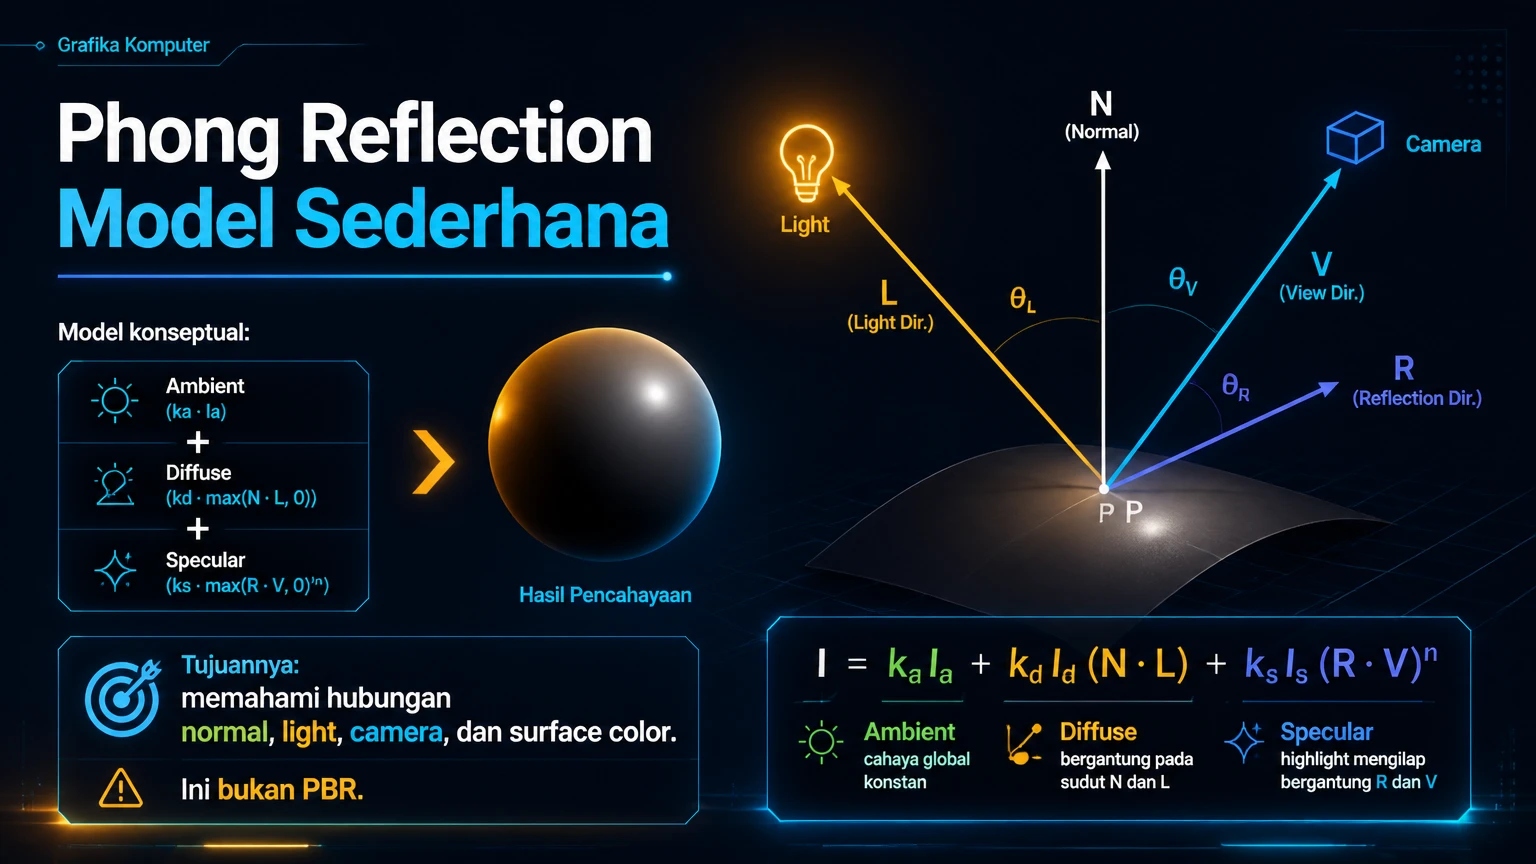
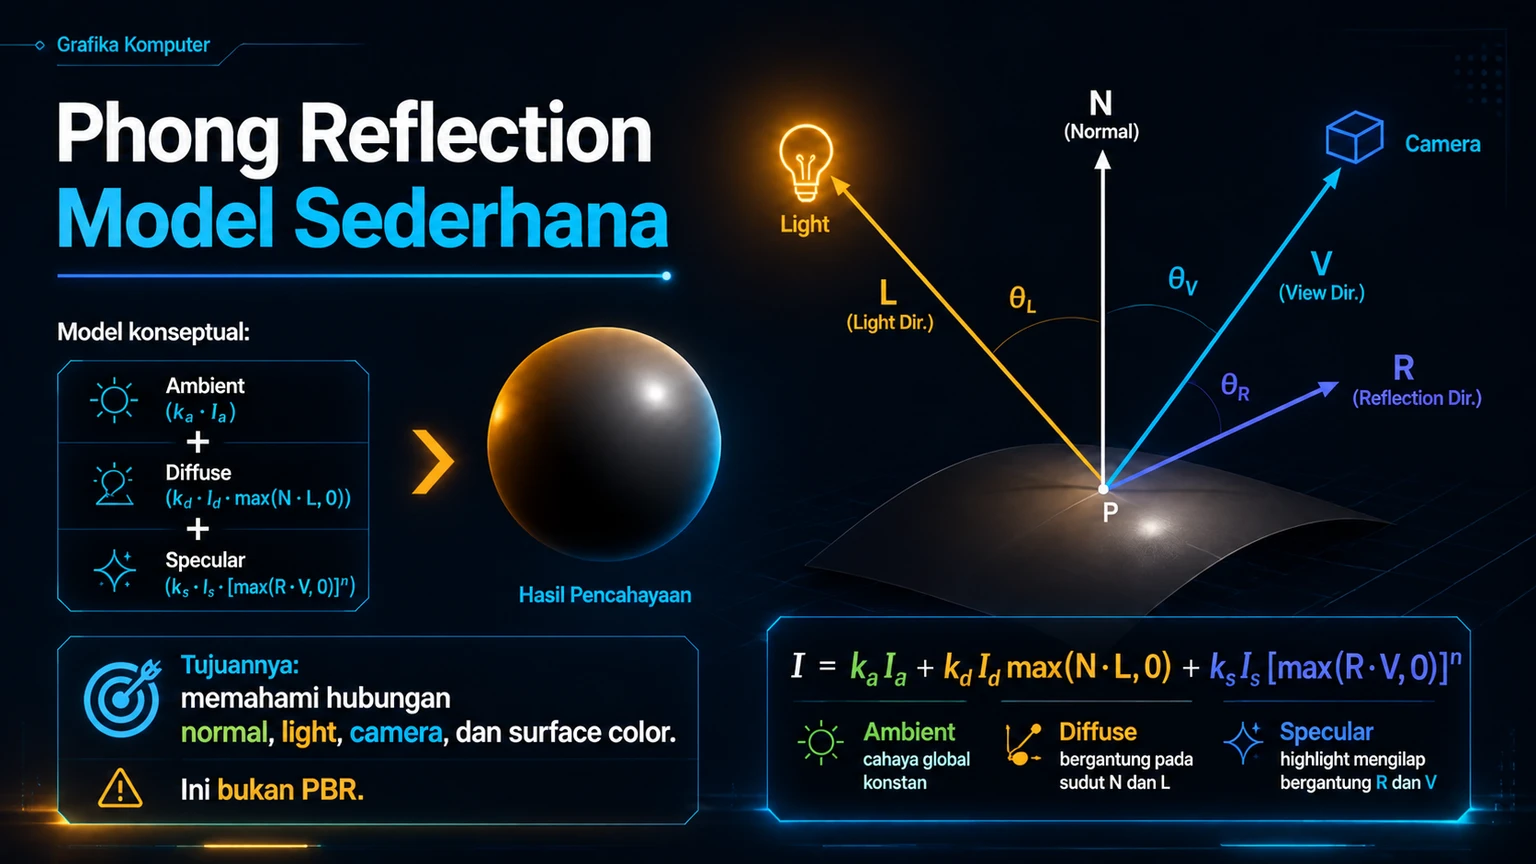
Add selectable curved objects to practicum 5 and update slide image

diff --git a/praktikum/output/pert05/main.js b/praktikum/output/pert05/main.js
@@ -179,21 +179,95 @@ function cubeData() {
   return { positions, normals, uvs };
 }
 
-const geometry = cubeData();
-const positionBuffer = createBuffer(geometry.positions);
-const faceNormalBuffer = createBuffer(geometry.normals);
-const smoothNormals = geometry.positions.reduce((result, _, index) => {
-  if (index % 3 === 0) {
-    const x = geometry.positions[index];
-    const y = geometry.positions[index + 1];
-    const z = geometry.positions[index + 2];
-    const length = Math.hypot(x, y, z) || 1;
-    result.push(x / length, y / length, z / length);
+// Parametric surfaces keep this WebGL2 example usable without external libraries.
+function curvedData(shape) {
+  const tau = Math.PI * 2;
+  function knotCenter(t) {
+    const radius = 0.68 + 0.24 * Math.cos(3 * t);
+    return [radius * Math.cos(2 * t), radius * Math.sin(2 * t),
+      0.24 * Math.sin(3 * t)];
   }
-  return result;
-}, []);
-const smoothNormalBuffer = createBuffer(smoothNormals);
-const uvBuffer = createBuffer(geometry.uvs);
+  function surface(u, v) {
+    const t = u * tau, angle = v * tau;
+    if (shape === "sphere") {
+      const latitude = v * Math.PI;
+      const normal = [Math.sin(latitude) * Math.cos(t), Math.cos(latitude),
+        Math.sin(latitude) * Math.sin(t)];
+      return { position: normal.map(value => value * 1.05), normal };
+    }
+    if (shape === "torus") {
+      const normal = [Math.cos(t) * Math.cos(angle),
+        Math.sin(t) * Math.cos(angle), Math.sin(angle)];
+      return { position: [(0.78 + 0.3 * Math.cos(angle)) * Math.cos(t),
+        (0.78 + 0.3 * Math.cos(angle)) * Math.sin(t), 0.3 * Math.sin(angle)], normal };
+    }
+    const center = knotCenter(t);
+    const tangent = normalize(subtract(knotCenter(t + 0.0001), knotCenter(t - 0.0001)));
+    // The planar tangent never vanishes for this (2, 3) knot. This frame is periodic.
+    const side = normalize(cross(tangent, [0, 0, 1]));
+    const up = normalize(cross(side, tangent));
+    const normal = side.map((value, i) => value * Math.cos(angle) + up[i] * Math.sin(angle));
+    return { position: center.map((value, i) => value + 0.15 * normal[i]), normal };
+  }
+  const positions = [], normals = [], smoothNormals = [], uvs = [];
+  const columns = shape === "torusKnot" ? 160 : 64;
+  const rows = 32;
+  function vertex(u, v) {
+    const sample = surface(u, v);
+    // Surface derivatives give the actual normal, including the tube frame's twist.
+    if (shape === "torusKnot") {
+      const du = subtract(surface(u + 0.00001, v).position, surface(u - 0.00001, v).position);
+      const dv = subtract(surface(u, v + 0.00001).position, surface(u, v - 0.00001).position);
+      let normal = normalize(cross(du, dv));
+      if (dot(normal, sample.normal) < 0) normal = normal.map(value => -value);
+      sample.normal = normal;
+    }
+    return { ...sample, uv: [u * 2, v * 2] };
+  }
+  const grid = Array.from({ length: columns + 1 }, (_, x) =>
+    Array.from({ length: rows + 1 }, (_, y) => vertex(x / columns, y / rows)));
+  function triangle(a, b, c) {
+    let face = cross(subtract(b.position, a.position), subtract(c.position, a.position));
+    if (Math.hypot(...face) < 1e-10) return; // Skip collapsed sphere pole triangles.
+    if (dot(face, a.normal) < 0) {
+      [b, c] = [c, b];
+      face = face.map(value => -value);
+    }
+    face = normalize(face);
+    for (const point of [a, b, c]) {
+      positions.push(...point.position);
+      normals.push(...face);
+      smoothNormals.push(...point.normal);
+      uvs.push(...point.uv);
+    }
+  }
+  for (let x = 0; x < columns; x += 1) {
+    for (let y = 0; y < rows; y += 1) {
+      triangle(grid[x][y], grid[x + 1][y], grid[x + 1][y + 1]);
+      triangle(grid[x][y], grid[x + 1][y + 1], grid[x][y + 1]);
+    }
+  }
+  return { positions, normals, smoothNormals, uvs };
+}
+
+const meshes = new Map();
+function getMesh(shape) {
+  if (meshes.has(shape)) return meshes.get(shape);
+  const geometry = shape === "cube" ? cubeData() : curvedData(shape);
+  const smoothNormals = geometry.smoothNormals || geometry.positions.reduce((result, _, index) => {
+    if (index % 3 === 0) result.push(...normalize(geometry.positions.slice(index, index + 3)));
+    return result;
+  }, []);
+  const mesh = {
+    position: createBuffer(geometry.positions),
+    flat: createBuffer(geometry.normals),
+    smooth: createBuffer(smoothNormals),
+    uv: createBuffer(geometry.uvs),
+    count: geometry.positions.length / 3,
+  };
+  meshes.set(shape, mesh);
+  return mesh;
+}
 
 function createBuffer(data) {
   const buffer = gl.createBuffer();
@@ -334,6 +408,7 @@ const state = {
   light: [2, 2, 3],
   ambient: 0.18,
   shininess: 32,
+  shape: "cube",
   flat: true,
   texture: true,
   textureSource: "checker",
@@ -429,13 +504,14 @@ function draw() {
   gl.useProgram(program);
   if (state.depth) gl.enable(gl.DEPTH_TEST);
   else gl.disable(gl.DEPTH_TEST);
-  bindAttribute(positionLocation, positionBuffer, 3);
+  const mesh = getMesh(state.shape);
+  bindAttribute(positionLocation, mesh.position, 3);
   bindAttribute(
     normalLocation,
-    state.flat ? faceNormalBuffer : smoothNormalBuffer,
+    state.flat ? mesh.flat : mesh.smooth,
     3,
   );
-  bindAttribute(uvLocation, uvBuffer, 2);
+  bindAttribute(uvLocation, mesh.uv, 2);
   const model = modelMatrix(),
     view = lookAt(state.camera.position, state.camera.target, state.camera.up),
     projection = perspective(60, canvas.width / canvas.height, 0.1, 30);
@@ -462,7 +538,7 @@ function draw() {
     state.textureSource === "image" ? imageTexture : checkerTexture,
   );
   gl.uniform1i(locations.texture, 0);
-  gl.drawArrays(gl.TRIANGLES, 0, geometry.positions.length / 3);
+  gl.drawArrays(gl.TRIANGLES, 0, mesh.count);
   updateHud();
 }
 function updateCamera(deltaTime) {
@@ -486,8 +562,8 @@ function updateCamera(deltaTime) {
 }
 function updateHud() {
   document.querySelector("#cubeRotationButton").textContent = state.cubeRotation
-    ? "Stop Cube Rotation (P)"
-    : "Resume Cube Rotation (P)";
+    ? "Stop Object Rotation (P)"
+    : "Resume Object Rotation (P)";
   document.querySelector("#shadingInfo").textContent = state.flat
     ? "FLAT"
     : "SMOOTH";
@@ -507,6 +583,7 @@ function reset() {
   Object.assign(state, {
     ambient: 0.18,
     shininess: 32,
+    shape: "cube",
     flat: true,
     texture: true,
     textureSource: "checker",
@@ -521,6 +598,7 @@ function reset() {
     cubeRotation: true,
     cubeTime: 0,
   });
+  document.querySelector("#shapeSelect").value = state.shape;
   state.camera.position = [0, 1.3, 5];
   state.camera.target = [0, 0, 0];
   [
@@ -550,6 +628,11 @@ function reset() {
   updateTextureState();
 }
 function bindControls() {
+  document.querySelector("#shapeSelect").onchange = (event) => {
+    state.shape = event.target.value;
+    // Curved surfaces start smooth; F still lets learners compare triangle normals.
+    state.flat = state.shape === "cube";
+  };
   document.querySelector("#cubeRotationButton").onclick = () => {
     state.cubeRotation = !state.cubeRotation;
   };

diff --git a/praktikum/output/pert05/index.html b/praktikum/output/pert05/index.html
@@ -3,7 +3,7 @@
   <head>
     <meta charset="UTF-8" />
     <meta name="viewport" content="width=device-width, initial-scale=1.0" />
-    <title>Textured and Lit Cube Playground — Praktikum 5</title>
+    <title>Textured and Lit Object Playground — Praktikum 5</title>
     <link rel="stylesheet" href="./style.css" />
   </head>
   <body>
@@ -13,7 +13,7 @@
           <span class="eyebrow"
             >PRAKTIKUM 05 · LIGHTING, SHADING & TEXTURE</span
           >
-          <h1>Textured and Lit Cube Playground</h1>
+          <h1>Textured and Lit Object Playground</h1>
           <p>
             Amati hubungan normal, texture, point light, camera, dan fragment
             shading.
@@ -49,7 +49,16 @@
         </section>
         <aside class="control-panel">
           <span class="eyebrow">PARAMETER CONTROL</span
-          ><label class="range-row"
+          >
+          <label class="select-row">Bentuk objek
+            <select id="shapeSelect">
+              <option value="cube">Kubus</option>
+              <option value="torus">Torus</option>
+              <option value="torusKnot">Torus Knot</option>
+              <option value="sphere">Bola</option>
+            </select>
+          </label>
+          <label class="range-row"
             ><span>Ambient strength</span
             ><output id="ambientValue">0.18</output></label
           ><input
@@ -104,7 +113,7 @@
             ><button id="cameraOrbitButton">Camera Orbit</button>
           </div>
           <button class="wide-button" id="cubeRotationButton">
-            Stop Cube Rotation (P)
+            Stop Object Rotation (P)
           </button>
           <label class="select-row"
             >Texture source<select id="textureSource">
@@ -169,7 +178,7 @@
             <b>Keyboard</b><span>Arrow: light X/Y · W/S: light Z</span
             ><span>Q/E: camera X · F: flat/smooth</span
             ><span>T: texture · L: light orbit · R: reset</span>
-            <span>P: stop/resume cube rotation</span>
+            <span>P: stop/resume object rotation</span>
           </div>
         </aside>
       </div>

diff --git a/praktikum/output/pert05/README.md b/praktikum/output/pert05/README.md
@@ -1,4 +1,4 @@
-# Output Praktikum 5 — Textured and Lit Cube Playground
+# Output Praktikum 5 — Textured and Lit Object Playground
 
 Output ini mengerjakan tugas utama serta Challenge A–G dari modul Praktikum 5.
 
@@ -36,7 +36,7 @@ Output ini mengerjakan tugas utama serta Challenge A–G dari modul Praktikum 5.
 | Light X/Y/Z | Mengatur posisi point light |
 | Light orbit | Membuat light mengorbit cube |
 | Camera orbit | Menggerakkan camera mengorbit target |
-| Stop / Resume Cube Rotation (P) | Menghentikan atau melanjutkan putaran kubus tanpa menghentikan orbit kamera dan lampu |
+| Stop / Resume Object Rotation (P) | Menghentikan atau melanjutkan putaran kubus tanpa menghentikan orbit kamera dan lampu |
 | Flat / Smooth | Mengganti face normal dengan smooth vertex normal |
 | Texture source | Checkerboard procedural atau image texture SVG |
 | Filtering | NEAREST, LINEAR, atau LINEAR + mipmap |
@@ -80,7 +80,7 @@ UV menentukan lokasi sampling texture. Demo menyediakan checkerboard yang dibuat
 
 ### Camera dan animation
 
-Tombol **Stop Cube Rotation (P)** membekukan orientasi kubus pada posisi terakhir. Tekan kembali untuk melanjutkan putaran dari posisi tersebut. Camera Orbit dan Light Orbit memakai waktu animasi terpisah dari putaran kubus sehingga tetap berjalan saat kubus berhenti. Saat Camera Orbit aktif, kubus tetap terlihat berubah sudut pandang karena kamera bergerak mengelilinginya. Reset Scene mengaktifkan kembali putaran kubus dan mengembalikan orientasinya ke awal.
+Tombol **Stop Object Rotation (P)** membekukan orientasi kubus pada posisi terakhir. Tekan kembali untuk melanjutkan putaran dari posisi tersebut. Camera Orbit dan Light Orbit memakai waktu animasi terpisah dari putaran kubus sehingga tetap berjalan saat kubus berhenti. Saat Camera Orbit aktif, kubus tetap terlihat berubah sudut pandang karena kamera bergerak mengelilinginya. Reset Scene mengaktifkan kembali putaran kubus dan mengembalikan orientasinya ke awal.
 
 Camera menggunakan look-at View Matrix dan perspective Projection Matrix. Camera serta light dapat dikontrol dengan state-based input. Cube berputar otomatis menggunakan delta time agar kecepatan tidak bergantung pada frame rate.
 
@@ -94,3 +94,11 @@ Camera menggunakan look-at View Matrix dan perspective Projection Matrix. Camera
 - [x] Animated cube
 - [x] State-based light/camera control
 - [x] Challenge A–G
+
+## Pilihan bentuk objek
+
+Dropdown **Bentuk objek** menyediakan Kubus, Torus, Torus Knot, dan Bola. Geometri dibuat langsung di JavaScript dan dirender dengan WebGL2, tanpa library tambahan. Setiap bentuk memiliki UV, normal per segitiga untuk Flat, dan normal permukaan untuk Smooth. Buffer geometri disimpan agar pergantian bentuk tidak terus membuat buffer baru.
+
+Bentuk melengkung otomatis memakai Smooth saat dipilih; kubus memakai Flat. Tombol F tetap dapat mengganti keduanya. Semua kontrol lighting, tekstur, skala, rotasi objek, serta orbit kamera/lampu berlaku pada bentuk terpilih. Pergantian bentuk mempertahankan pengaturan tersebut kecuali mode Flat/Smooth. Reset kembali ke kubus.
+
+Untuk mengamati highlight, pilih Torus Knot atau Bola, matikan Texture, lalu bandingkan shininess rendah dan tinggi. Hentikan Object Rotation untuk membekukan objek; Camera Orbit tetap mengubah sudut pandang. Demo belum menghitung bayangan antarpermukaan (self-shadow), termasuk pada lekukan torus knot.
